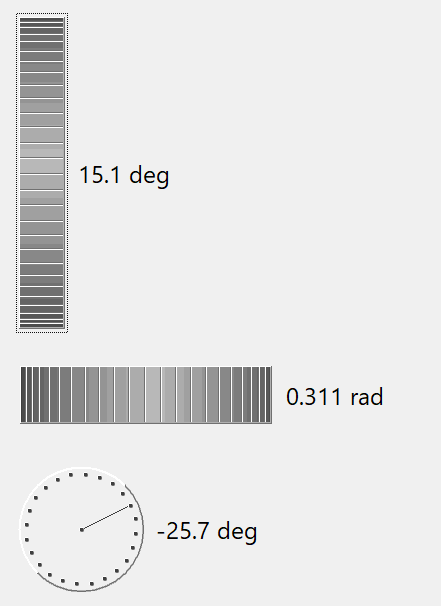
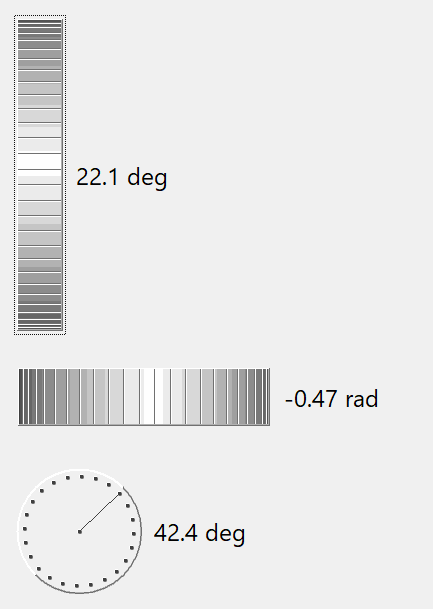
Fixed: IupDial shading initialization. removed -1 for vertical angle removed fixed values variables

diff --git a/html/en/elem/iupdial.html b/html/en/elem/iupdial.html
@@ -43,23 +43,26 @@ dial(<strong>orientation</strong>) [in LED] </pre>
 
 
 <p><strong>FLAT</strong>: use a 1 pixel flat border instead of the default 3 
-pixels sunken border. Can be Yes or No. Default: No.</p>
+pixels sunken border. Can be Yes or No. Default: No. (since 3.24)</p>
 <p><strong>FLATCOLOR:</strong> color of the border when FLAT=Yes. Default: &quot;164 
-164 164&quot;.</p>
+164 164&quot;. (since 3.24)</p>
 
 
 <p><a href="../attrib/iup_fgcolor.html">FGCOLOR</a>: foreground color. The 
-default value is &quot;64 64 64&quot;. </p>
+default value is &quot;64 64 64&quot;. (appears in circular dial since 3.24)</p>
 <p> <a href="../attrib/iup_size.html">SIZE</a> (<font SIZE="3">non inheritable</font>): 
 the initial size is &quot;16x80&quot;, &quot;80x16&quot; or &quot;40x35&quot; according to the dial orientation. Set 
 to NULL to allow the automatic layout use smaller values.</p>
 <p><strong>ORIENTATION</strong> (creation only) (<font SIZE="3">non inheritable</font>):&nbsp; dial layout configuration &quot;VERTICAL&quot;, 
-  &quot;HORIZONTAL&quot; or &quot;CIRCULAR&quot;. Default: &quot;HORIZONTAL&quot;.</p>
+  &quot;HORIZONTAL&quot; or &quot;CIRCULAR&quot;. Default: &quot;HORIZONTAL&quot;. 
+Vertical increments when moved up, and decrements when moved down. Horizontal 
+increments when moved right, and decrements when moved left. Circular increments 
+when moved counter clock wise, and decrements when moved clock wise. </p>
 <p><strong>UNIT</strong>: unit of the angle. Can be &quot;DEGREES&quot; 
   or &quot;RADIANS&quot;. Default is &quot;RADIANS&quot;. Used only in the 
 callbacks.</p>
 <p><strong>VALUE </strong>(<font SIZE="3">non inheritable</font>):
-  The dial angular value in radians. 
+  The dial angular value in radians always. 
   The value is reset to zero when the interaction is started, except for 
 ORIENTATION=CIRCULAR. When orientation is vertical or horizontal, the dial measures relative 
 angles. When orientation is circular the dial measure absolute angles, where the origin 
@@ -163,7 +166,10 @@ for every repetition.</p>
 PI/100 (1.8 degrees). Press the Home key in the circular dial to reset to 0.</p>
 <h3><a name="Examples">Examples</a></h3>
 <p><a href="../../examples/">Browse for Example Files</a></p>
-<p align="center"><img src="images/iupdial.png"></p>
+
+<p align="center"><img src="images/iupdial.png"><br>Regular</p>
+
+<p align="center"><img src="images/iupdial2.png"><br>Flat=Yes and fgcolor</p>
 <h3><a name="SeeAlso">See Also</a></h3>
 
 <p><a href="../elem/iupcanvas.html">IupCanvas</a></p>

diff --git a/html/en/history3.html b/html/en/history3.html
@@ -173,6 +173,11 @@ version 3.x.</p>
 	<span
             style="color: #000000"><span class="hist_fixed">Fixed: </span> 
 	</span></span>dynamically insert a child in an empty <strong>IupExpander</strong>.</font> </li>
+	<li>
+	<font SIZE="3"><span style="color: #008000">
+	<span
+            style="color: #000000"><span class="hist_fixed">Fixed: </span> 
+	</span></span><strong>IupDial</strong> shading initialization.</font></li>
 
 </ul>
 <h3><a href="http://sourceforge.net/projects/iup/files/3.23/">Version 3.23</a> (11/Oct/2017)</h3>

diff --git a/src/iup_dial.c b/src/iup_dial.c
@@ -70,26 +70,25 @@ struct _IcontrolData
   long flatcolor;
 };
 
-static long iDialGetFgColor(Ihandle* ih, double a, double amin)
+static long iDialGetFgColor(Ihandle* ih, double a)
 {
-  double nu = fabs(a - 0.5 * M_PI);
-  double de = fabs(0.5 * M_PI - amin);
-  double fr = nu / de;
-  int i = (int)(IDIAL_NCOLORS * fr);
+  double half = 0.5 * M_PI;
+  double fr = fabs(a - half) / half;
+  int i = (int)(IDIAL_NCOLORS * fr + 0.5);
   return ih->data->fgcolor[IDIAL_NCOLORS - i];
 }
 
-static void iDialDrawVerticalShading(Ihandle* ih, double amin, double amax, int *ymin, int *ymax)
+static void iDialDrawVerticalShading(Ihandle* ih, int *ymin, int *ymax)
 {
   int border = ih->data->flat ? 1 : 2;
-  double delta = (0.5 * M_PI - amin) / IDIAL_NCOLORS;
+  double delta = (0.5 * M_PI - 0.0) / IDIAL_NCOLORS;
   double a, yc = ih->data->h / 2.0;
   *ymin = *ymax = ih->data->h / 2;
-  for (a = amin; a < 0.5 * M_PI; a += delta)
+  for (a = 0.0; a < 0.5 * M_PI; a += delta)
   {
     int y0 = (int)(yc + ih->data->radius * cos(a + delta));
     int y1 = (int)(yc + ih->data->radius * cos(a));
-    long fgcolor = iDialGetFgColor(ih, a, amin);
+    long fgcolor = iDialGetFgColor(ih, a);
     iupAttribSet(ih, "DRAWSTYLE", "FILL");
     iupDrawSetColor(ih, "DRAWCOLOR", fgcolor);
     IupDrawRectangle(ih, IDIAL_SPACE + 1, y0, ih->data->w - 1 - IDIAL_SPACE - border, y1);
@@ -99,11 +98,11 @@ static void iDialDrawVerticalShading(Ihandle* ih, double amin, double amax, int 
     if (abs(y1 - y0) < 2)
       continue;
   }
-  for (a = 0.5 * M_PI; a < amax; a += delta)
+  for (a = 0.5 * M_PI; a < M_PI; a += delta)
   {
     int y0 = (int)(yc - ih->data->radius * fabs(cos(a + delta)));
     int y1 = (int)(yc - ih->data->radius * fabs(cos(a)));
-    long fgcolor = iDialGetFgColor(ih, a, amin);
+    long fgcolor = iDialGetFgColor(ih, a);
     iupAttribSet(ih, "DRAWSTYLE", "FILL");
     iupDrawSetColor(ih, "DRAWCOLOR", fgcolor);
     IupDrawRectangle(ih, IDIAL_SPACE + 1, y0, ih->data->w - 1 - IDIAL_SPACE - border, y1);
@@ -118,27 +117,25 @@ static void iDialDrawVerticalShading(Ihandle* ih, double amin, double amax, int 
 static void iDialDrawVertical(Ihandle* ih)
 {
   int border = ih->data->flat ? 1 : 2;
-  double delta = 2 * M_PI / ih->data->num_div;
-  double a, amin, amax;
+  double delta = 2.0 * M_PI / ih->data->num_div;
+  double a;
   int ymin, ymax;
 
   ih->data->radius = (ih->data->h - 2 * IDIAL_SPACE - 1 - border) / 2.0;
 
-  amin = 0.0;
-  amax = M_PI;
-  if (ih->data->angle < amin)
+  if (ih->data->angle < 0.0)
   {
-    for (a = ih->data->angle; a < amin; a += delta)
+    for (a = ih->data->angle; a < 0.0; a += delta)
       ;
   }
   else
   {
-    for (a = ih->data->angle; a > amin; a -= delta)
+    for (a = ih->data->angle; a > 0.0; a -= delta)
       ;
     a += delta;
   }
 
-  iDialDrawVerticalShading(ih, amin, amax, &ymin, &ymax);
+  iDialDrawVerticalShading(ih, &ymin, &ymax);
 
   if (ih->data->flat)
   {
@@ -150,7 +147,7 @@ static void iDialDrawVertical(Ihandle* ih)
     iupDrawRaiseRect(ih, IDIAL_SPACE, ymin, ih->data->w - 1 - IDIAL_SPACE, ymax,
                      ih->data->light_shadow, ih->data->mid_shadow, ih->data->dark_shadow);
 
-  for (; a < amax; a += delta)    /* graduation */
+  for (; a < M_PI; a += delta)    /* graduation */
   {
     int y;
     if (a < 0.5 * M_PI) y = (int)(ih->data->h / 2.0 + ih->data->radius * cos(a));
@@ -164,18 +161,18 @@ static void iDialDrawVertical(Ihandle* ih)
   }
 }
 
-static void iDialDrawHorizontalShading(Ihandle* ih, double amin, double amax, int *xmin, int *xmax)
+static void iDialDrawHorizontalShading(Ihandle* ih, int *xmin, int *xmax)
 {
   int border = ih->data->flat ? 1 : 2;
-  double delta = (0.5 * M_PI - amin) / IDIAL_NCOLORS;
+  double delta = (0.5 * M_PI - 0.0) / IDIAL_NCOLORS;
   double a, xc = ih->data->w / 2.0;
   *xmin = *xmax = ih->data->w / 2;
-  for (a = amin; a < 0.5 * M_PI; a += delta)
+  for (a = 0.0; a < 0.5 * M_PI; a += delta)
   {
     int x0 = (int)(xc - ih->data->radius * cos(a));
     int x1 = (int)(xc - ih->data->radius * cos(a + delta));  /* x1 is always bigger than x0 here (cos is decreasing) */
     iupAttribSet(ih, "DRAWSTYLE", "FILL");
-    long fgcolor = iDialGetFgColor(ih, a, amin);
+    long fgcolor = iDialGetFgColor(ih, a);
     iupDrawSetColor(ih, "DRAWCOLOR", fgcolor);
     IupDrawRectangle(ih, x0, IDIAL_SPACE + 1, x1, ih->data->h - 1 - IDIAL_SPACE - border);
 
@@ -184,12 +181,12 @@ static void iDialDrawHorizontalShading(Ihandle* ih, double amin, double amax, in
     if (abs(x1 - x0) < 2)
       continue;
   }
-  for (a = 0.5 * M_PI; a < amax; a += delta)
+  for (a = 0.5 * M_PI; a < M_PI; a += delta)
   {
     int x0 = (int)(xc + ih->data->radius * fabs(cos(a)));
     int x1 = (int)(xc + ih->data->radius * fabs(cos(a + delta)));  /* x1 is always bigger than x0 here (abs(cos) is increasing) */
     iupAttribSet(ih, "DRAWSTYLE", "FILL");
-    long fgcolor = iDialGetFgColor(ih, a, amin);
+    long fgcolor = iDialGetFgColor(ih, a);
     iupDrawSetColor(ih, "DRAWCOLOR", fgcolor);
     IupDrawRectangle(ih, x0, IDIAL_SPACE + 1, x1, ih->data->h - 1 - IDIAL_SPACE - border);
 
@@ -203,27 +200,25 @@ static void iDialDrawHorizontalShading(Ihandle* ih, double amin, double amax, in
 static void iDialDrawHorizontal(Ihandle* ih)
 {
   int border = ih->data->flat ? 1 : 2;
-  double delta = 2 * M_PI / ih->data->num_div;
-  double a, amin, amax;
+  double delta = 2.0 * M_PI / ih->data->num_div;
+  double a;
   int xmin, xmax;
 
   ih->data->radius = (ih->data->w - 2 * IDIAL_SPACE - 1 - border) / 2.0;
 
-  amin = 0.0;
-  amax = M_PI;
-  if (ih->data->angle < amin)
+  if (ih->data->angle < 0.0)
   {
-    for (a = ih->data->angle; a < amin; a += delta)
+    for (a = ih->data->angle; a < 0.0; a += delta)
       ;
   }
   else
   {
-    for (a = ih->data->angle; a > amin; a -= delta)
+    for (a = ih->data->angle; a > 0.0; a -= delta)
       ;
     a += delta;
   }
 
-  iDialDrawHorizontalShading(ih, amin, amax, &xmin, &xmax);
+  iDialDrawHorizontalShading(ih, &xmin, &xmax);
 
   if (ih->data->flat)
   {
@@ -235,7 +230,7 @@ static void iDialDrawHorizontal(Ihandle* ih)
     iupDrawRaiseRect(ih, xmin, IDIAL_SPACE, xmax, ih->data->h - 1 - IDIAL_SPACE,
                      ih->data->light_shadow, ih->data->mid_shadow, ih->data->dark_shadow);
 
-  for (; a < amax; a += delta)
+  for (; a < M_PI; a += delta)
   {
     int x;
     if (a < 0.5 * M_PI) x = (int)(ih->data->w / 2.0 - ih->data->radius * cos(a));
@@ -275,7 +270,7 @@ static void iDialDrawCircularMark(Ihandle* ih, int xc, int yc)
 static void iDialDrawCircular(Ihandle* ih)
 {
   int border = ih->data->flat ? 1 : 2;
-  double delta = 2 * M_PI / ih->data->num_div,
+  double delta = 2.0 * M_PI / ih->data->num_div,
          a = ih->data->angle;
   int i, xc = ih->data->w / 2, 
          yc = ih->data->h / 2,
@@ -320,7 +315,7 @@ static void iDialDrawCircular(Ihandle* ih)
   for (i = 0; i < ih->data->num_div; ++i)
   {
     int x2 = (int)(xc + ih->data->radius * cos(a));
-    int y2 = (int)(yc + ih->data->radius * sin(a));
+    int y2 = (int)(yc - ih->data->radius * sin(a));
 
     if (i == 0)
     {
@@ -353,14 +348,17 @@ static int iDialRedraw_CB(Ihandle* ih)
 
 static int iDialUpdateFgColors(Ihandle* ih, const char* fgcolor)
 {
-  int i, max, deltar, deltag, deltab;
+  int i, max, deltar, deltag, deltab, active = 1;
   unsigned char r, g, b;
 
   if (!iupStrToRGB(fgcolor, &r, &g, &b))
     return 0;
 
+  if (ih->handle && !iupdrvIsActive(ih))
+    active = 0;
+
   /* this function is also called before mapping */
-  max = (ih->handle && iupdrvIsActive(ih)) ? 255 : 192;
+  max = active? 255: 192;
   deltar = (max - r) / IDIAL_NCOLORS;
   deltag = (max - g) / IDIAL_NCOLORS;
   deltab = (max - b) / IDIAL_NCOLORS;
@@ -418,13 +416,7 @@ static int iDialButtonRelease(Ihandle* ih, int button)
   {
     IFnd cb_old = (IFnd)IupGetCallback(ih, "BUTTON_RELEASE_CB");
     if (cb_old)
-    {
-      double angle = ih->data->angle;
-      if (ih->data->orientation == IDIAL_VERTICAL)
-        angle *= -1;
-
-      cb_old(ih, angle * ih->data->unit);
-    }
+      cb_old(ih, ih->data->angle * ih->data->unit);
   }
 
   return IUP_DEFAULT;
@@ -442,7 +434,7 @@ static int iDialMotionVertical_CB(Ihandle* ih, int x, int y, char *status)
   if (!iup_isbutton1(status))
     return IUP_DEFAULT;
 
-  ih->data->angle += (double)(y - ih->data->py) / ih->data->radius;
+  ih->data->angle += (double)(ih->data->py - y) / ih->data->radius;
   ih->data->py = y;
 
   IupUpdate(ih);
@@ -454,7 +446,7 @@ static int iDialMotionVertical_CB(Ihandle* ih, int x, int y, char *status)
   {
     IFnd cb_old = (IFnd)IupGetCallback(ih, "MOUSEMOVE_CB");
     if (cb_old)
-      cb_old(ih, ih->data->angle * ih->data->unit * -1);
+      cb_old(ih, ih->data->angle * ih->data->unit);
   }
 
   return IUP_DEFAULT;
@@ -513,10 +505,11 @@ static int iDialMotionCircular_CB(Ihandle* ih, int x, int y, char *status)
   if (ma == 0 || mb == 0 || ab < -1 || ab > 1)
     return IUP_DEFAULT;
 
-  if (vet > 0) ih->data->angle += acos(ab);
-  else         ih->data->angle -= acos(ab);
+  if (vet > 0) ih->data->angle -= acos(ab);
+  else         ih->data->angle += acos(ab);
 
   IupUpdate(ih);
+
   ih->data->px = x;
   ih->data->py = y;
 

diff --git a/html/examples/tests/gauge.c b/html/examples/tests/gauge.c
@@ -235,7 +235,7 @@ void GaugeTest(void)
 //  IupSetAttribute(gauge, "BGCOLOR", "255 0 128");
 //  IupSetAttribute(gauge, "FGCOLOR", "0 128 0");
 //  IupSetAttribute(gauge, "FLAT", "YES");
-//  IupSetAttribute(gauge, "FGCOLOR", "96 120 232");
+  //IupSetAttribute(gauge, "FGCOLOR", "96 120 232");
 
   btn_restart = IupButton(NULL, NULL);
   btn_pause = IupButton(NULL, NULL);

diff --git a/html/examples/tests/dial.c b/html/examples/tests/dial.c
@@ -79,6 +79,8 @@ void DialTest(void)
 
   IupSetCallback(dial_h, "HELP_CB", help_cb);
   IupSetCallback(dial_v, "HELP_CB", help_cb);
+  IupSetAttribute(dial_c, "UNIT", "DEGREES");
+  
 //  IupSetAttribute(dial_h, "FGCOLOR", "0 128 0");
 //  IupSetAttribute(dial_v, "FGCOLOR", "96 120 232");
 //  IupSetAttribute(dial_c, "FGCOLOR", "96 120 232");
